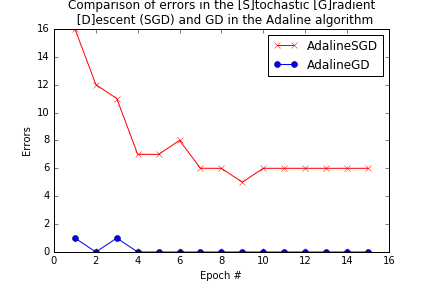
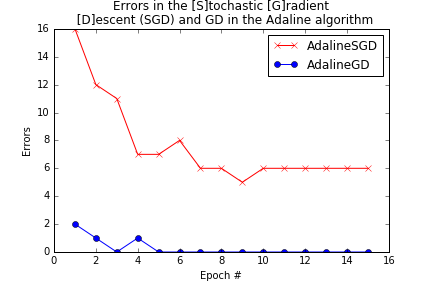
Add files via upload

Changed region(s): [[0.1505, 0.0, 0.8727, 0.0312], [0.1505, 0.75, 0.3611, 0.875]]

diff --git a/adaline_script.py b/adaline_script.py
@@ -64,7 +64,7 @@ plt.plot(range(1, len(adln.errors_) + 1), adln.errors_,
 plt.xlabel('Epoch #')
 plt.ylabel('Errors')
 plt.legend(loc='upper right')
-plt.title('Comparison of errors in the [S]tochastic [G]radient\n ' \
+plt.title('Errors in the [S]tochastic [G]radient\n ' \
           ' [D]escent (SGD) and GD in the Adaline algorithm')
 plt.savefig('SGDvsGDErrors.png')
 plt.clf()
@@ -77,7 +77,7 @@ plt.plot(range(1, len(adln.errors_) + 1), adln.cost_,
 plt.xlabel('Epoch #')
 plt.ylabel('Errors')
 plt.legend(loc='upper right')
-plt.title('Comparison of cost function in the [S]tochastic [G]radient\n ' \
+plt.title('Cost function in the [S]tochastic [G]radient\n ' \
           ' [D]escent (SGD) and GD in the Adaline algorithm')
 plt.savefig('SGDvsGDCost.png')
 plt.clf()
@@ -131,7 +131,7 @@ plt.plot(range(1, len(adln.errors_) + 1), adln.errors_,
 plt.xlabel('Epoch #')
 plt.ylabel('Errors')
 plt.legend(loc='upper right')
-plt.title('Comparison of errors in the [S]tochastic [G]radient\n ' \
+plt.title('Errors in the [S]tochastic [G]radient\n ' \
           ' [D]escent (SGD) and GD in the Adaline algorithm')
 plt.savefig('SGDvsGDErrorsNS.png')
 plt.clf()
@@ -144,7 +144,7 @@ plt.plot(range(1, len(adln.errors_) + 1), adln.cost_,
 plt.xlabel('Epoch #')
 plt.ylabel('Errors')
 plt.legend(loc='upper right')
-plt.title('Comparison of cost function in the [S]tochastic [G]radient\n ' \
+plt.title('Cost function of the [S]tochastic [G]radient\n ' \
           ' [D]escent (SGD) and GD in the Adaline algorithm')
 plt.savefig('SGDvsGDCostNS.png')
 plt.clf()

diff --git a/adalineGD.py b/adalineGD.py
@@ -57,6 +57,12 @@ class AdalineGD(object):
         
         for i in range(self.n_iter):
             err = 0
+            # compute errors per epoch
+            for j in range(X.shape[1]):
+                status = y[j] - self.predict(X[j, ]) 
+                err += int(status != 0.0)
+                
+            # update weights    
             output = self.net_input(X)
             errors = (y - output)
             self.w_[1:] += self.eta*X.T.dot(errors)
@@ -64,10 +70,7 @@ class AdalineGD(object):
             cost = (errors**2).sum()/2.0
             self.cost_.append(cost)
             
-            # compute errors per epoch
-            for j in range(X.shape[1]):
-                status = y[j] - self.predict(X[j, ]) 
-                err += int(status != 0.0)
+            
             self.errors_.append(err)
             
         return self

diff --git a/adalineSGD.py b/adalineSGD.py
@@ -75,7 +75,7 @@ class AdalineSGD(object):
             # Append the number of errors and cost function at the end of each
             # epoch
             self.errors_.append(error)
-            self.cost_.append(cost/X.shape[0])
+            self.cost_.append(cost)
         
         return self
         
